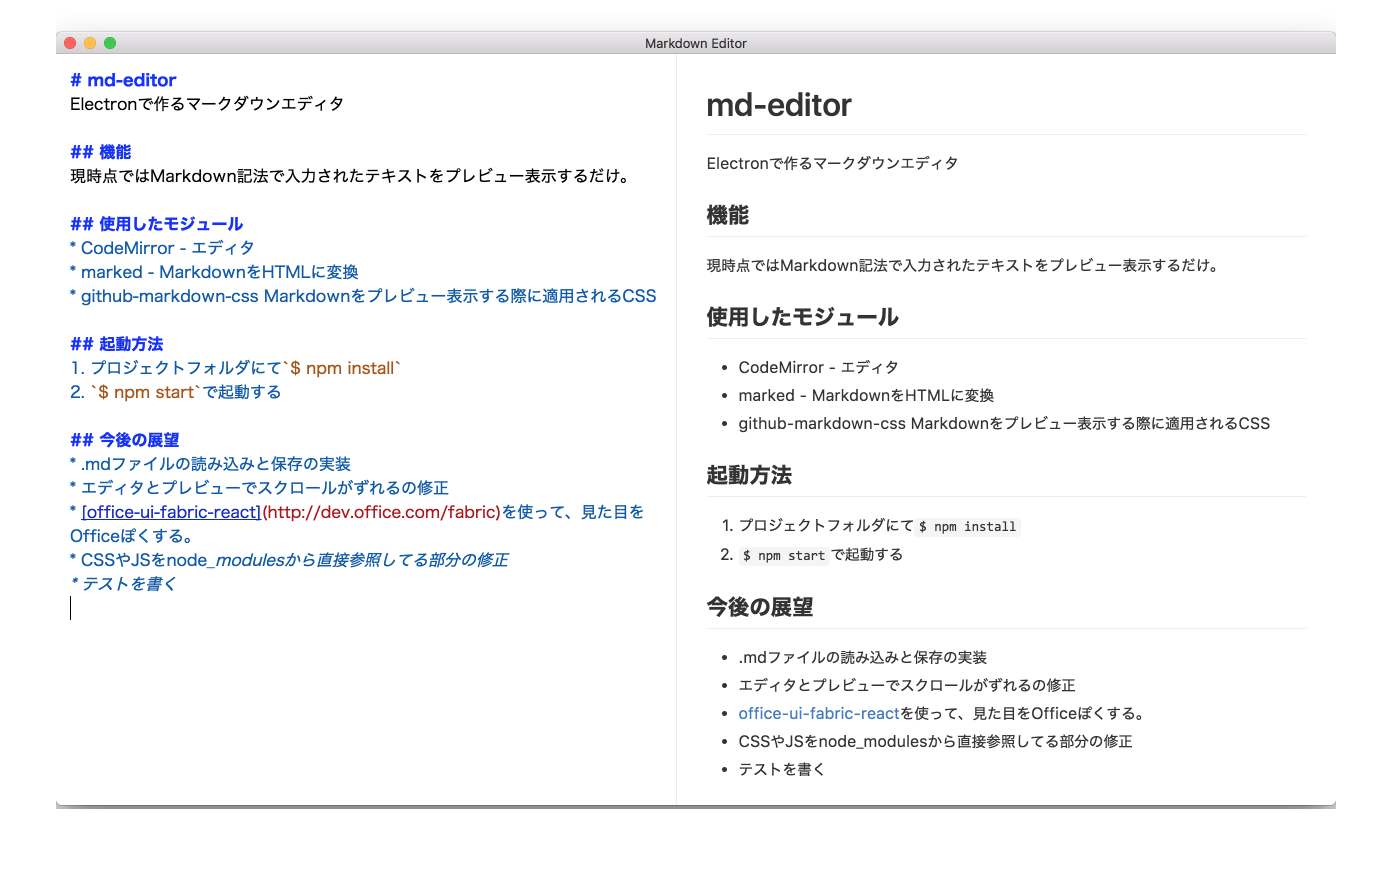
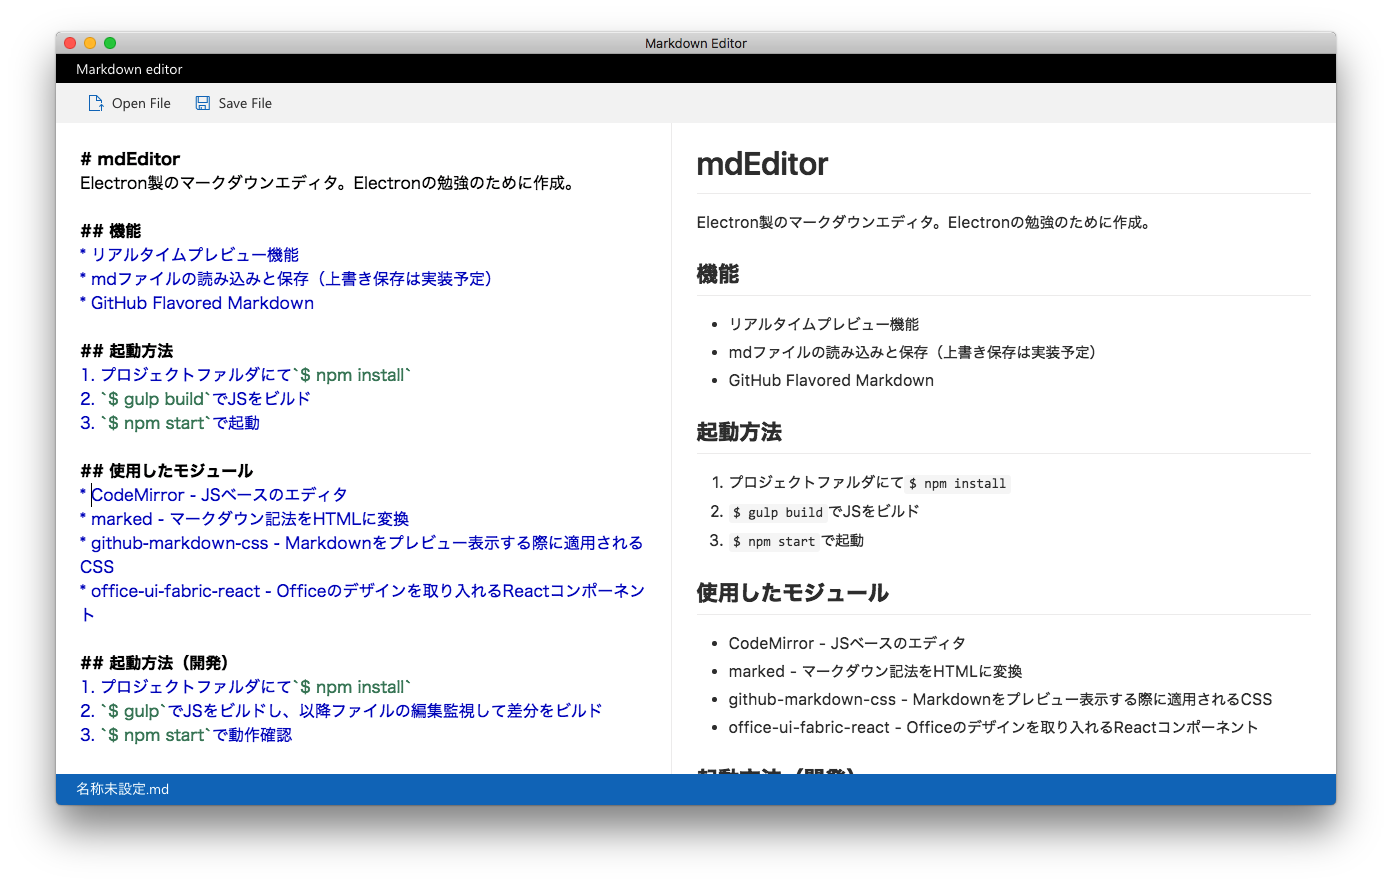
Fix editor scroll.

Changed region(s): [[0.0309, 0.0305, 0.9885, 0.9763]]

diff --git a/main.js b/main.js
@@ -26,12 +26,14 @@ const menu = Menu.buildFromTemplate([
     submenu: [
       {
         label: 'Open',
+        accelerator: 'CmdOrCtrl+O',
         click: function () {
           fileSystem.openFile();
         },
       },
       {
         label: 'Save',
+        accelerator: 'CmdOrCtrl+S',
         click: function () {
           mainWindow.webContents.send('get-data', '');
           ipcMain.on('send-data', (event, data) => {
@@ -45,7 +47,7 @@ const menu = Menu.buildFromTemplate([
     label: 'Edit',
     submenu: [
       { label: 'Undo', accelerator: 'CmdOrCtrl+Z', selector: 'undo:' },
-      { label: 'Redo', accelerator: 'Shift+CmdOrCtrl+Z', selector: 'redo:' },
+      { label: 'Redo', accelerator: 'CmdOrCtrl+Y', selector: 'redo:' },
       { type: 'separator' },
       { label: 'Cut', accelerator: 'CmdOrCtrl+X', selector: 'cut:' },
       { label: 'Copy', accelerator: 'CmdOrCtrl+C', selector: 'copy:' },

diff --git a/style.css b/style.css
@@ -1,7 +1,3 @@
-html, body, #md-editor, #content, #main, .CodeMirror {
-    height: 100%;
-}
-
 .CodeMirror {
   height: auto;
 }
@@ -9,6 +5,9 @@ html, body, #md-editor, #content, #main, .CodeMirror {
 #main {
     width: 100%;
     display: flex;
+    position: absolute;
+    top: 65px;
+    bottom: 35px;
 }
 
 body {
@@ -40,18 +39,26 @@ body {
 
 .ReactCodeMirror {
     width: 50%;
-    overflow: scroll;
+    overflow: scroll !important;
 }
 
 #preview {
     border-left: 1px solid #eee;
     width: 50%;
-    padding: 60px 25px 10px 25px;
-    overflow: scroll;
+    overflow: scroll !important;
+}
+
+.preview-wrap {
+    padding: 20px 25px 20px 25px;
 }
 
 .CodeMirror {
     font: inherit;
-    padding: 60px 20px 10px 20px;
+    font-size: 15px;
+    padding: 15px 20px 20px 20px;
     z-index: 0;
+}
+
+.CodeMirror-sizer {
+    border-right: 20px solid transparent !important;
 }

diff --git a/components/preview.js b/components/preview.js
@@ -6,7 +6,9 @@ const Preview = React.createClass({
   render() {
     const html = marked(this.props.markdown);
     return (
-      <div id="preview" className="markdown-body" dangerouslySetInnerHTML={{__html: html}} ></div>
+      <div id="preview" >
+        <div className="preview-wrap markdown-body" dangerouslySetInnerHTML={{__html: html}}></div>
+      </div>
     );
   }
 

diff --git a/components/editor.js b/components/editor.js
@@ -20,6 +20,7 @@ const Editor = React.createClass({
       autofocus: true,
       lineWrapping: true,
       fixedGutter: true,
+      coverGutterNextToScrollbar: true,
     };
     return (
       <Codemirror id="editor" ref="editor" value={this.props.text} onChange={this.updateText} options={options} />

diff --git a/README.md b/README.md
@@ -1,31 +1,30 @@
-# md-editor
-Electronで作るマークダウンエディタ。Electronの勉強のために作成。
-
-![md-editor](./md-editor.png)
+# mdEditor
+![](./md-editor.png)
+Electron製のマークダウンエディタ。Electronの勉強のために作成。
 
 ## 機能
-* Markdown記法で入力されたテキストのプレビュー表示
-* mdファイルの読み込みと保存
+* リアルタイムプレビュー機能
+* mdファイルの読み込みと保存（上書き保存は実装予定）
+* GitHub Flavored Markdown
+
+## 起動方法
+1. プロジェクトファルダにて`$ npm install`
+2. `$ gulp build`でJSをビルド
+3. `$ npm start`で起動
 
 ## 使用したモジュール
-* CodeMirror - エディタ
-* marked - MarkdownをHTMLに変換
+* CodeMirror - JSベースのエディタ
+* marked - マークダウン記法をHTMLに変換
 * github-markdown-css - Markdownをプレビュー表示する際に適用されるCSS
-
-## 起動方法（通常）
-1. プロジェクトフォルダにて`$ npm install`
-2. `$ gulp build`でJSをビルド
-3. `$ npm start`で起動する
+* office-ui-fabric-react - Officeのデザインを取り入れるReactコンポーネント
 
 ## 起動方法（開発）
-1. プロジェクトフォルダにて`$ npm install`
-2. `$ gulp`を実行すると、以降JSファイルを監視し編集する度に差分をビルドする
+1. プロジェクトファルダにて`$ npm install`
+2. `$ gulp`でJSをビルドし、以降ファイルの編集監視して差分をビルド
 3. `$ npm start`で動作確認
 
-## 今後の展望
-* ~~.mdファイルの読み込みと保存の実装~~ => 実装済み（既存ファイル編集後の上書き保存は追加実装必要）
-* エディタとプレビューでスクロールがずれる問題の修正
-* [office-ui-fabric-react](http://dev.office.com/fabric)を使って、見た目をOfficeぽくする。
-* CSSやJSをnode_modulesから直接参照してる部分の修正
-* ディレクトリ構造の修正
-* テストを書く
+## バグ
+```
+# md-editor
+見出し1にハイフンが含まれる場合、HTMLに変換されない
+```
